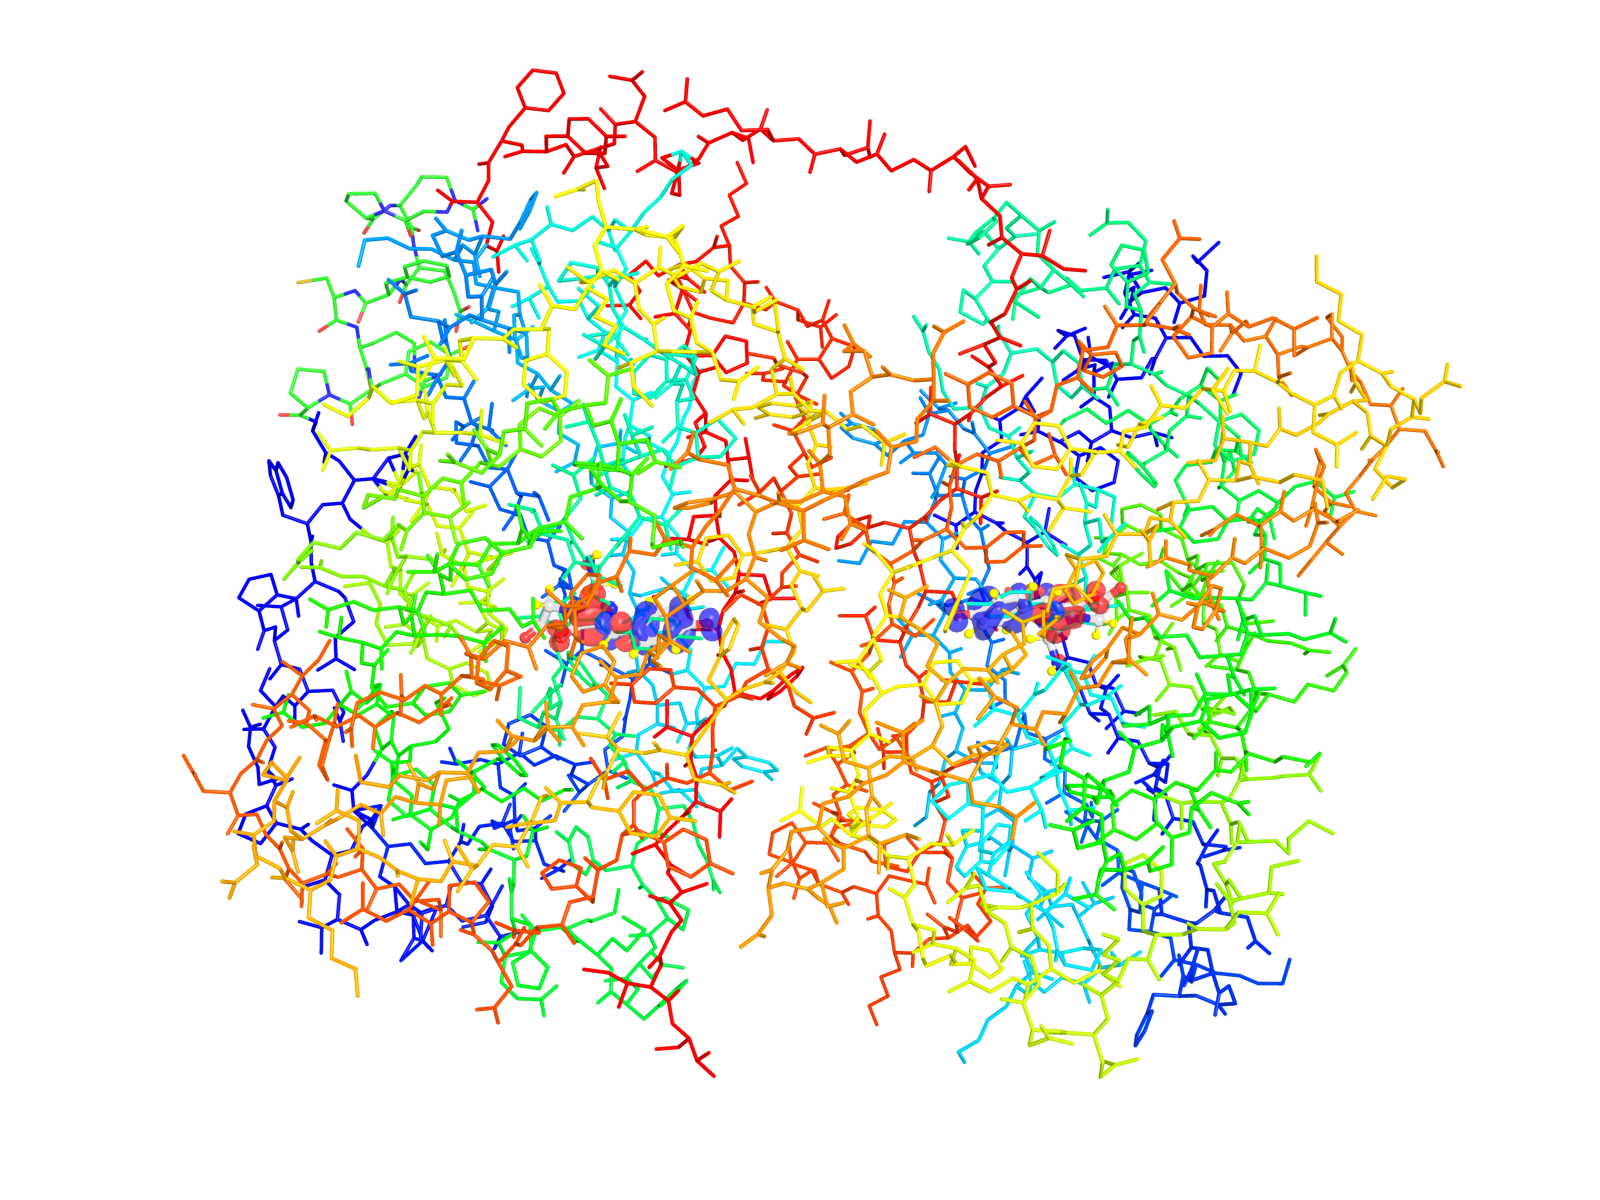
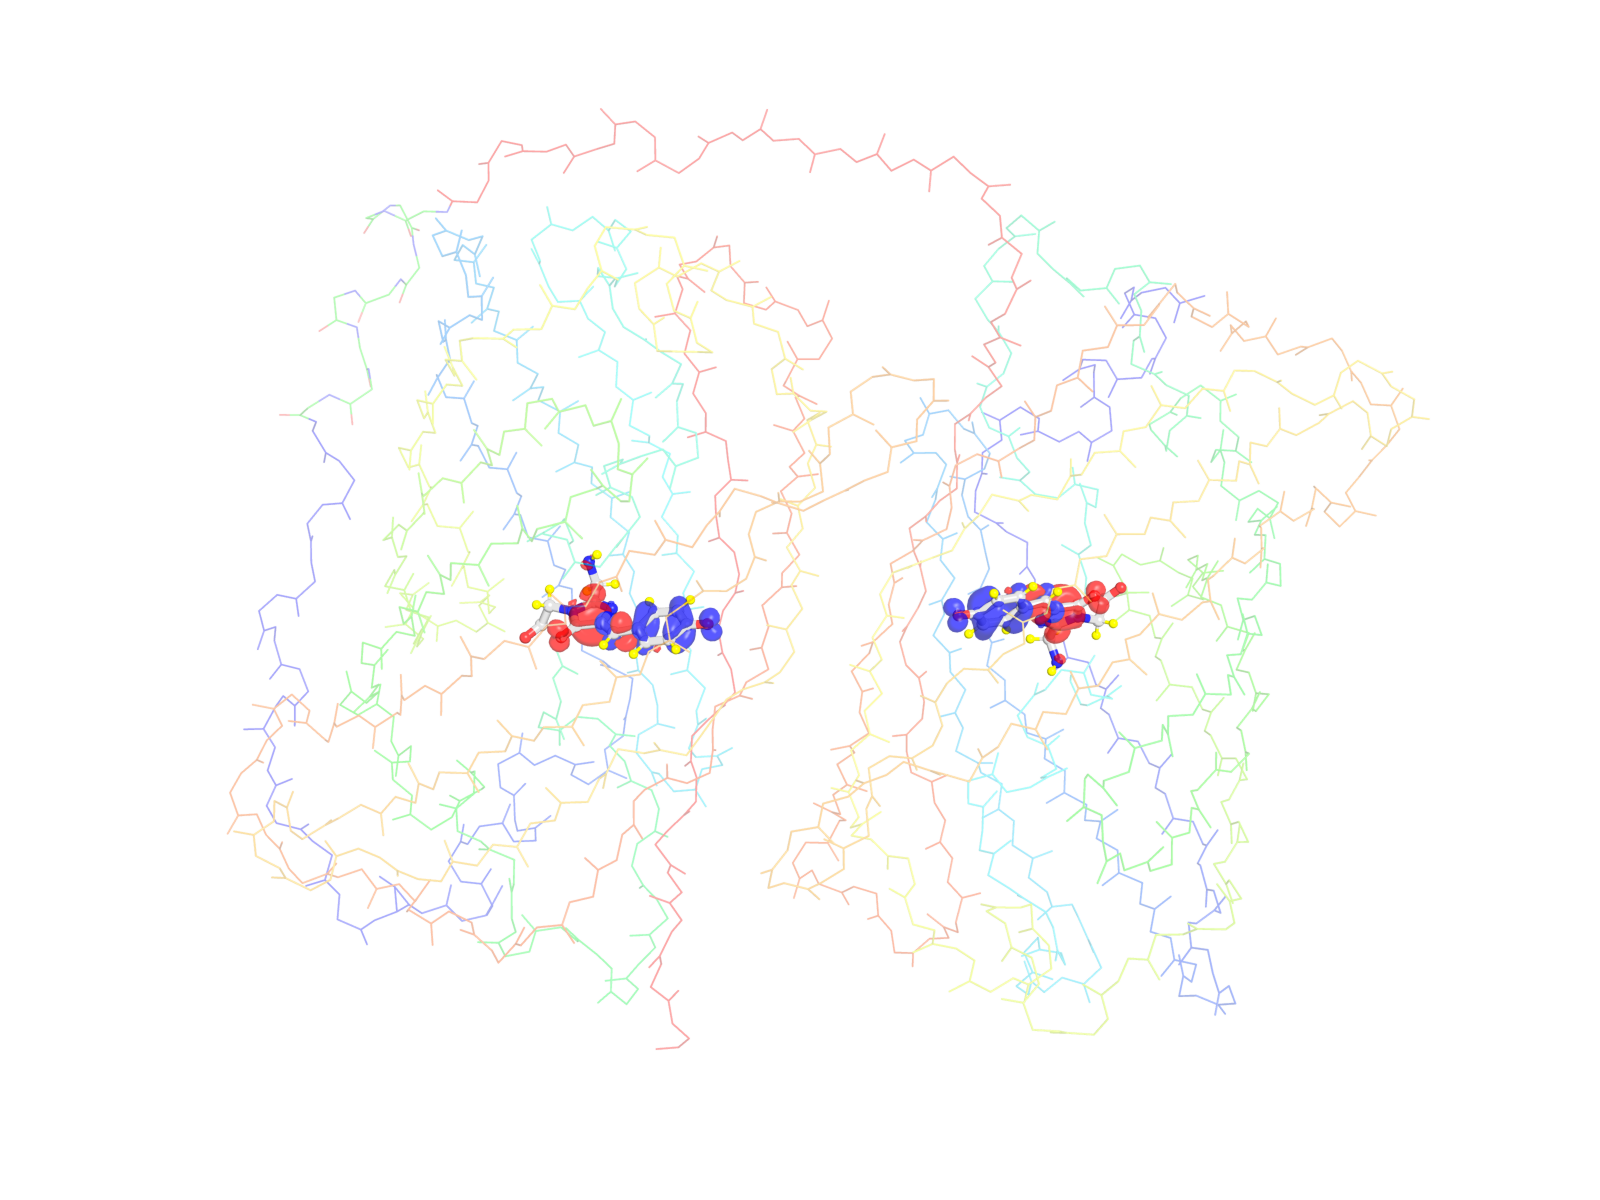
Render MM skeleton with translucent backbone sticks and restore ribbon cartoon for TOC graphic

diff --git a/make_paper_figures.py b/make_paper_figures.py
@@ -29,7 +29,9 @@ cmd.matrix_copy("siteA", "siteA")  # ensure matrix is applied
 cmd.matrix_copy("siteB", "siteB")
 
 cmd.hide("everything")
-cmd.show("lines", "dimer_ref")
+cmd.show("sticks", "dimer_ref and backbone")
+cmd.set("stick_radius", 0.05, "dimer_ref")
+cmd.set("stick_transparency", 0.65, "dimer_ref")
 cmd.spectrum("count", "rainbow", "dimer_ref and resi 1-240")
 cmd.spectrum("count", "rainbow", "dimer_ref and resi 250-500")
 
@@ -59,11 +61,11 @@ def render(fn, kind, view):
     cmd.disable("Transition_Density"); cmd.disable("Difference_Density")
     cmd.enable("Transition_Density" if kind=="tr" else "Difference_Density")
     if view == "dimer":
-        cmd.enable("siteA"); cmd.enable("siteB"); cmd.show("lines","dimer_ref")
+        cmd.enable("siteA"); cmd.enable("siteB"); cmd.show("sticks","dimer_ref and backbone")
         cmd.enable(f"{kind}_A_p"); cmd.enable(f"{kind}_A_n")
         cmd.orient("dimer_ref")
     else:                                                        # site-B QM close-up
-        cmd.hide("lines"); cmd.disable("siteA")
+        cmd.hide("sticks", "dimer_ref"); cmd.disable("siteA")
         cmd.disable(f"{kind}_A_p"); cmd.disable(f"{kind}_A_n")
         cmd.orient(f"siteB and {QM}"); cmd.zoom(f"siteB and {QM}", 3)
     cmd.ray(W, H); cmd.png(f"{OUT}/{fn}", dpi=300); print("wrote", fn)
@@ -74,6 +76,6 @@ render("03_difference_dimer.png", "df", "dimer")
 render("04_difference_qm.png",    "df", "qm")
 
 # clean state for interactive viewing
-cmd.enable("siteA"); cmd.enable("siteB"); cmd.show("lines","dimer_ref")
+cmd.enable("siteA"); cmd.enable("siteB"); cmd.show("sticks","dimer_ref and backbone")
 cmd.enable("Transition_Density"); cmd.disable("Difference_Density"); cmd.orient("dimer_ref")
 print("DONE — 4 paper-format figures in", OUT)

diff --git a/make_toc_white.py b/make_toc_white.py
@@ -35,7 +35,8 @@ for dst, site in [("mt_A", "siteA"), ("mt_B", "siteB")]:
 cmd.disable("mt")
 
 cmd.hide("everything")
-cmd.show("lines", "dimer_ref")
+cmd.dss("dimer_ref")
+cmd.show("cartoon", "dimer_ref")
 cmd.spectrum("count", "rainbow", "dimer_ref and resi 1-240")
 cmd.spectrum("count", "rainbow", "dimer_ref and resi 250-500")
 for q in ("qmA", "qmB"):
